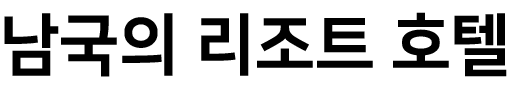
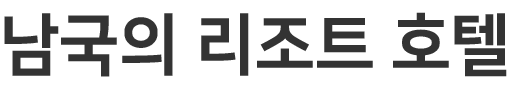
수영복2020 에피 후편...

diff --git a/idolmaster/js/cjs/episode/413_3/413_3.js b/idolmaster/js/cjs/episode/413_3/413_3.js
@@ -1289,7 +1289,7 @@ p.nominalBounds = new cjs.Rectangle(-2.2,-0.1,4.5,6.8999999999999995);
 	// 타이틀 텍스트 테스트
 	this.shape = new lib.title_txt_3();
 	//this.shape.graphics.f("#333333").s().p("AhLA6QAMgJAHgMQAIgLADgOQAEgMACgOQABgOAAgOIAAgMIAAgMIASAAIAAALQgBAdgCAWQgDAVgIASQgIASgPAPgAAAAgIAAggIAAhDIAQAAIAAAMIAAARIAAAVIAAAVIAAAVIAAAPQALgFAJgKQAJgJAHgMQAGgLAFgMIANAPQgEAJgIAMQgGALgKAKQgKAKgMAIQgMAHgOADIAAgig");
-	this.shape.setTransform(-76, -12, 0.3, 0.3); //this.shape.setTransform(72.15,0.525);
+	this.shape.setTransform(-76, -13, 0.3, 0.3); //this.shape.setTransform(72.15,0.525);
 
 	this.shape_1 = new cjs.Shape();
[1 lines of base64/hex data omitted]
